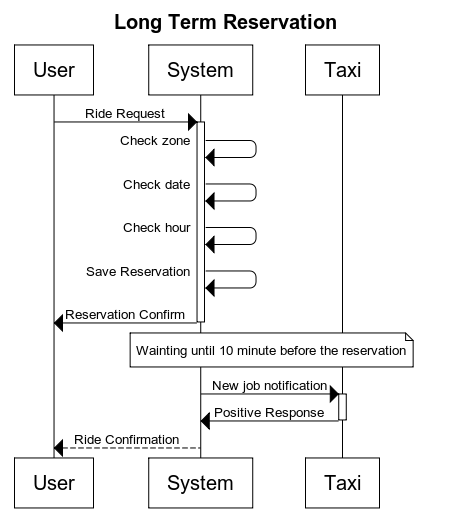
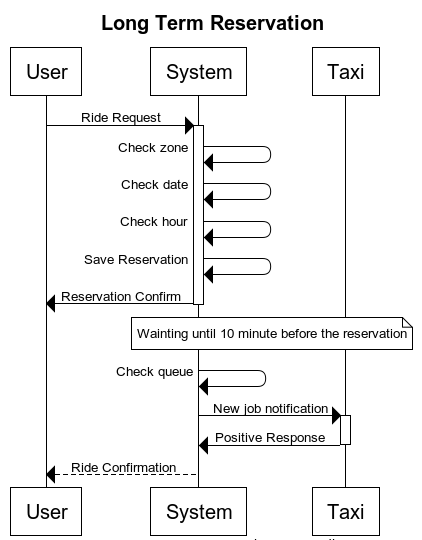
added missing descriptions, changed a sequence diagram and the world and the machine diagram, added hours of work

Changed region(s): [[0.0308, 0.031, 0.9858, 1.0]]

diff --git a/sequence_diagrams.tex b/sequence_diagrams.tex
@@ -2,12 +2,25 @@
 	Some sequence diagrams of the system's most interesting aspects
 	\begin{center}
 		\includegraphics[width=0.60\textwidth]{./images/Taxi_Registration}
+	\end{center}
+	in order to register a taxi must send his identifier and a password to the system that localize him using the gps and inserts him into the appropriate queue. After this the system confirms the registration.
 		\newpage
+	\begin{center}
 		\includegraphics[width=0.80\textwidth]{./images/Short_Term_Reservation}
+	\end{center}
+	In order to request a short term reservation ride a user must send his address; date and hours must be omitted in this case. The system check where the address is located and the queue associated to that zone; then sends a notification to the first taxi in the queue and after the taxi confirmation, the system confirms the reservation to the user.
 		\newpage
+	\begin{center}
 		\includegraphics[width=0.90\textwidth]{./images/Short_Term_Reservation_with_multiple_requests_to_taxis}
+	\end{center}
+	In order to request a short term reservation ride a user must send his address; date and hours must be omitted in this case. The system check where the address is located and the queue associated to that zone; then sends a notification to the first taxi in the queue and since the first taxi answers with a negative response the system puts the taxi at the end of the queue and asks to the second taxi in the queue. After the taxi confirmation, the system confirms the reservation to the user.
 		\newpage
+	\begin{center}
 		\includegraphics[width=0.90\textwidth]{./images/Short_Term_Reservation_with_taxi_timeout}
+	\end{center}
+	In order to request a short term reservation ride a user must send his address; date and hours must be omitted in this case. The system check where the address is located and the queue associated to that zone; then sends a notification to the first taxi in the queue and since the first taxi doesn't answers the system, after a timeout, puts the taxi at the end of the queue and asks to the second taxi in the queue. After the taxi confirmation, the system confirms the reservation to the user.
 		\newpage
+	\begin{center}
 		\includegraphics[width=0.90\textwidth]{./images/Long_Term_Reservation}
 	\end{center}
+	In order to request a long term reservation ride a user must send his address, the date and the hours of the reservation. Te system check where the address is located and stores the reservation i the database and confirms the user his reservation. Ten minutes before the ride the system check the queue associated with the address zone and send a notification to the taxi. After the positive answer by the taxi the system confirms the user his ride

diff --git a/specific_requirements.tex b/specific_requirements.tex
@@ -165,9 +165,10 @@
 			\item A taxi only receives notification about his rides.
 		\end{itemize}
 	\subsection{The World and the Machine}
-	\begin{center}
-		\includegraphics[width=0.85\textwidth]{./images/ellissi}
-	\end{center}
+		\begin{center}
+			\includegraphics[width=0.85\textwidth]{./images/ellissi}
+		\end{center}
+		Service request and Taxi status are events that happen in the physical world; the machine then uses the data coming from the world to build a representation of it using taxi queue, taxi location and city zones. The database is only stored in the machine and contains all the data about users to send notification, long term reservations and data about taxis.
 	\subsection{Scenarios}
 		\subsubsection{Scenario 1}
 		Bob has a meeting in Los Angeles the day after tomorrow. Since he hasn't a car, he decides to use myTaxiService and therefore rent a taxi to go to the airport. He grabs his cell phone and, with the mobile application of the service, he books a taxi. The app asks him his name, his surname, his phone number and the address where he wants to wait for the taxi. He inserts all the data requested and, after the server has stored these information in the database, with a SMS, it notifies Bob that the long-term reservation has been realized correctly. 

diff --git a/appendix.tex b/appendix.tex
@@ -7,3 +7,7 @@
 		\item Web Sequence Diagram \url{http://www.websequencediagrams.com/} to draw the sequence diagrams
 	\end{itemize}
 \subsubsection{Hours of Work}
+\begin{itemize}
+	\item Paolo Paterna: 40 Hrs
+	\item Lara Premi: 40 Hrs
+\end{itemize}
